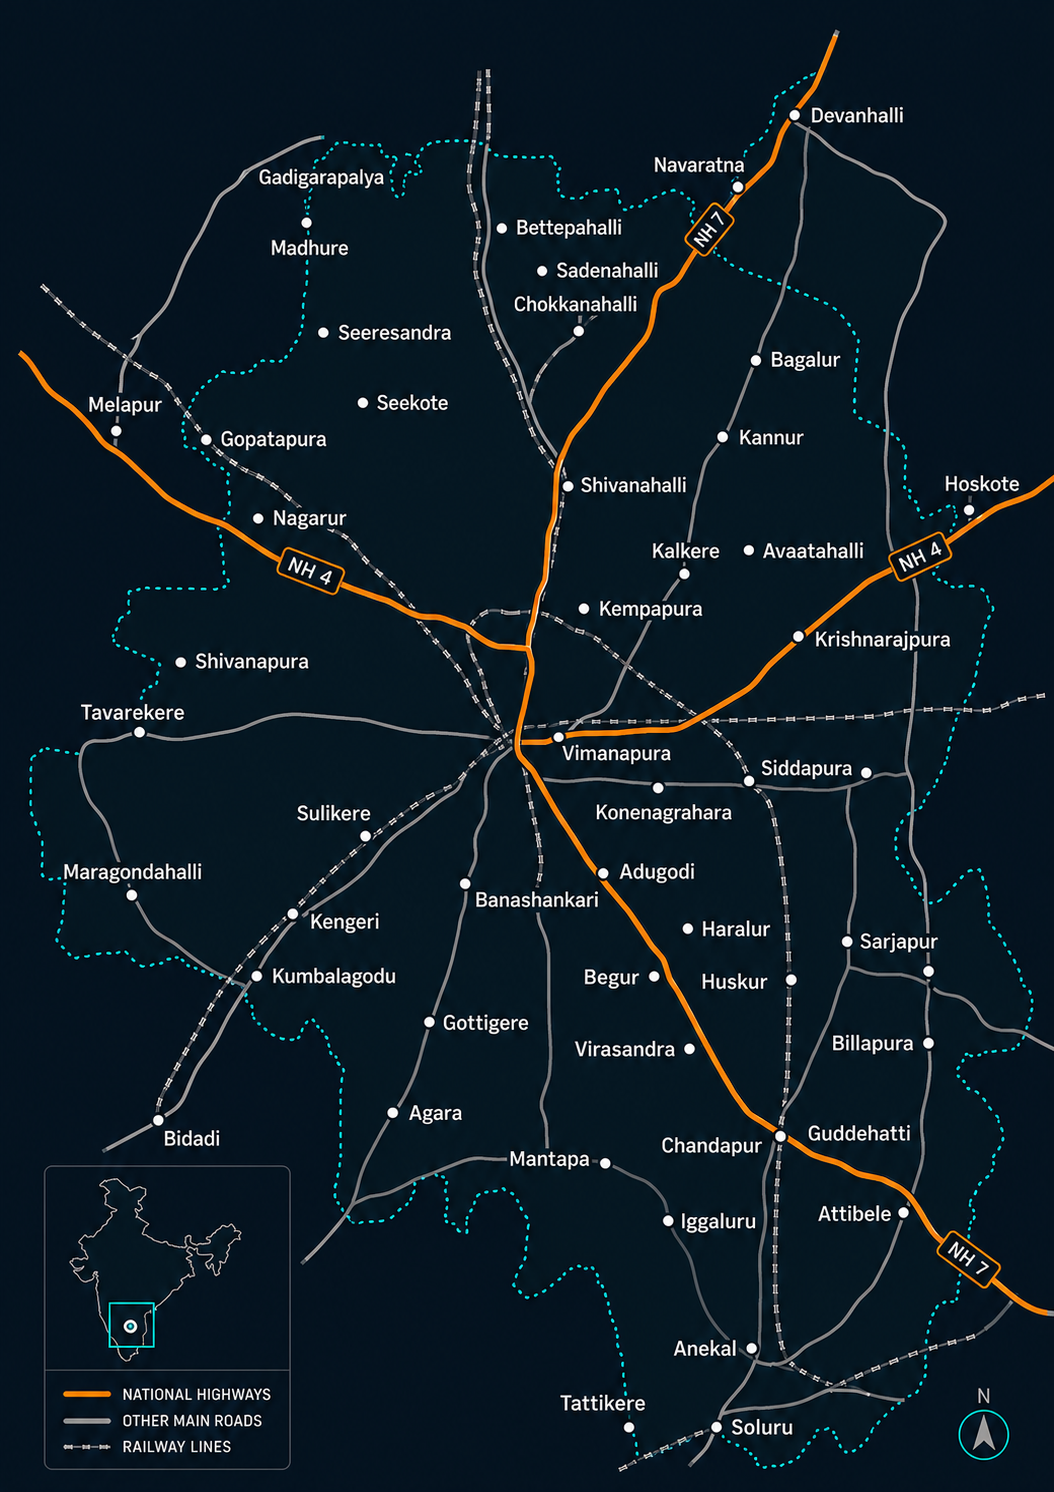
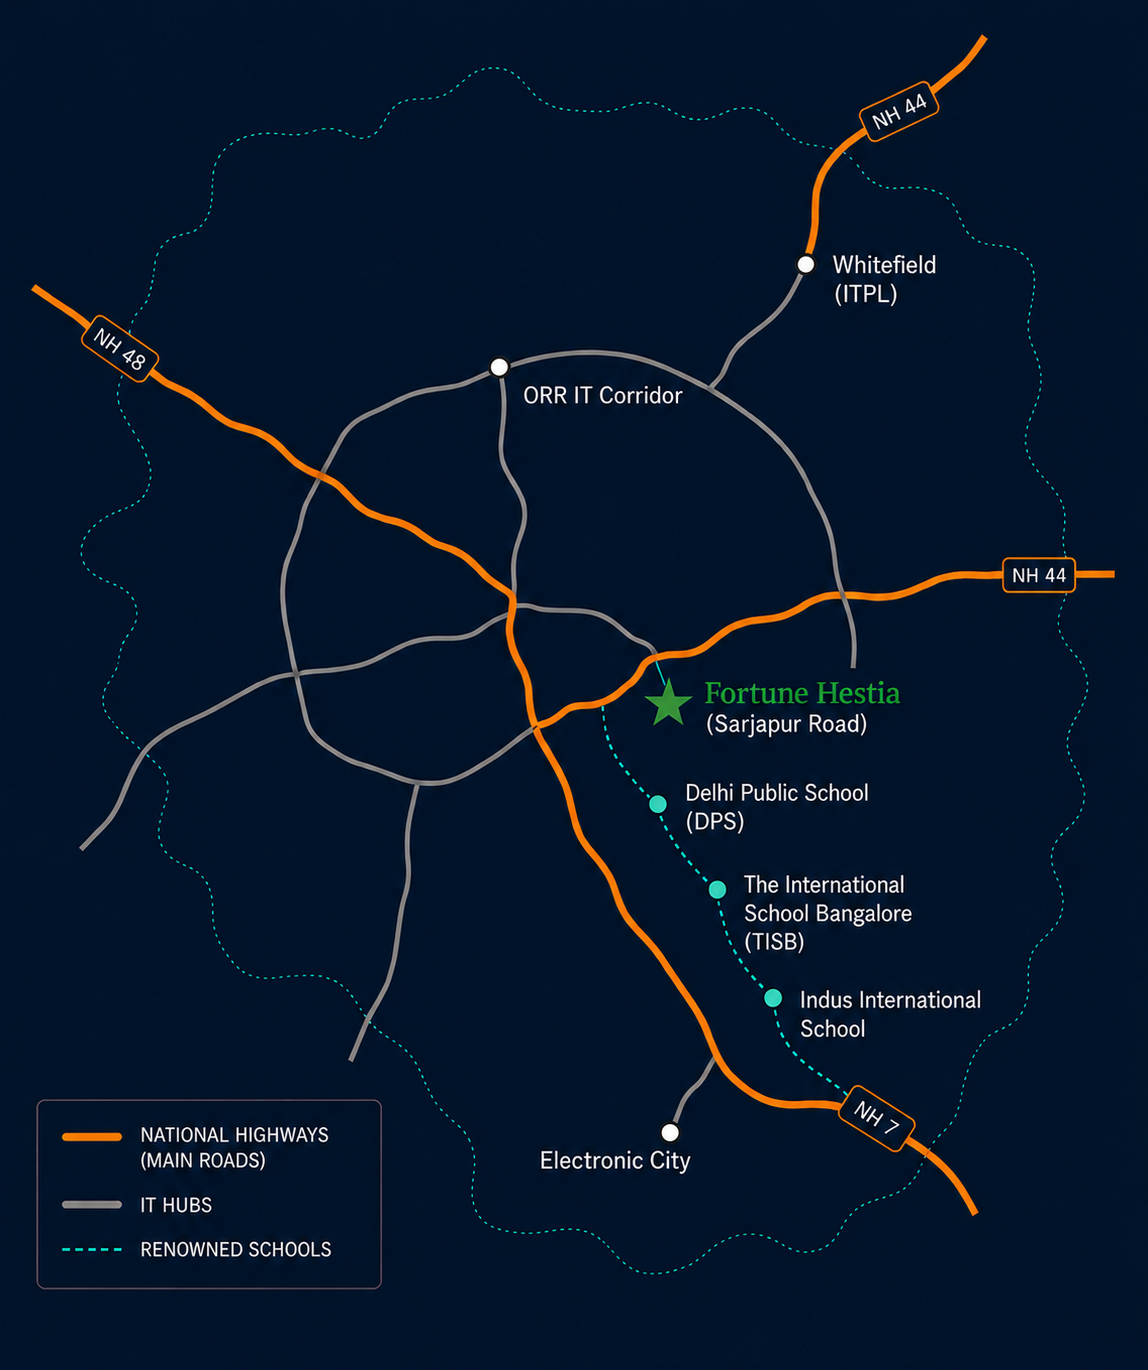
v3

diff --git a/lib/data.ts b/lib/data.ts
@@ -314,7 +314,7 @@ export const BLOG_POSTS = [
     card: "Where laughter fills every corner and every home is crafted for lasting memories.",
     title: "The Art of Fine Living: Welcome to the Limited-Edition Villas of Fortune Hestia",
     readTime: "1.5 mins",
-    image: "/images/familybl.jpg",
+    image: "/images/familybl.jpeg",
     body: [
       "Some homes are thoughtfully crafted to become the backdrop for life's most meaningful moments. Nestled within the 50-acre Greek-inspired Fortune Cosmos township, Fortune Hestia presents a limited edition collection of 4 BHK luxury villas off Sarjapur Road, where timeless Greek-inspired architecture, open spaces and contemporary living come together in perfect harmony.",
       "Wake up to sunlit interiors, gather with loved ones on spacious private terraces, and experience the warmth of a home designed for modern family living. Surrounded by landscaped green spaces and seamlessly connected to Bengaluru's thriving IT corridor, Fortune Hestia offers a lifestyle where every day feels beautifully lived.",